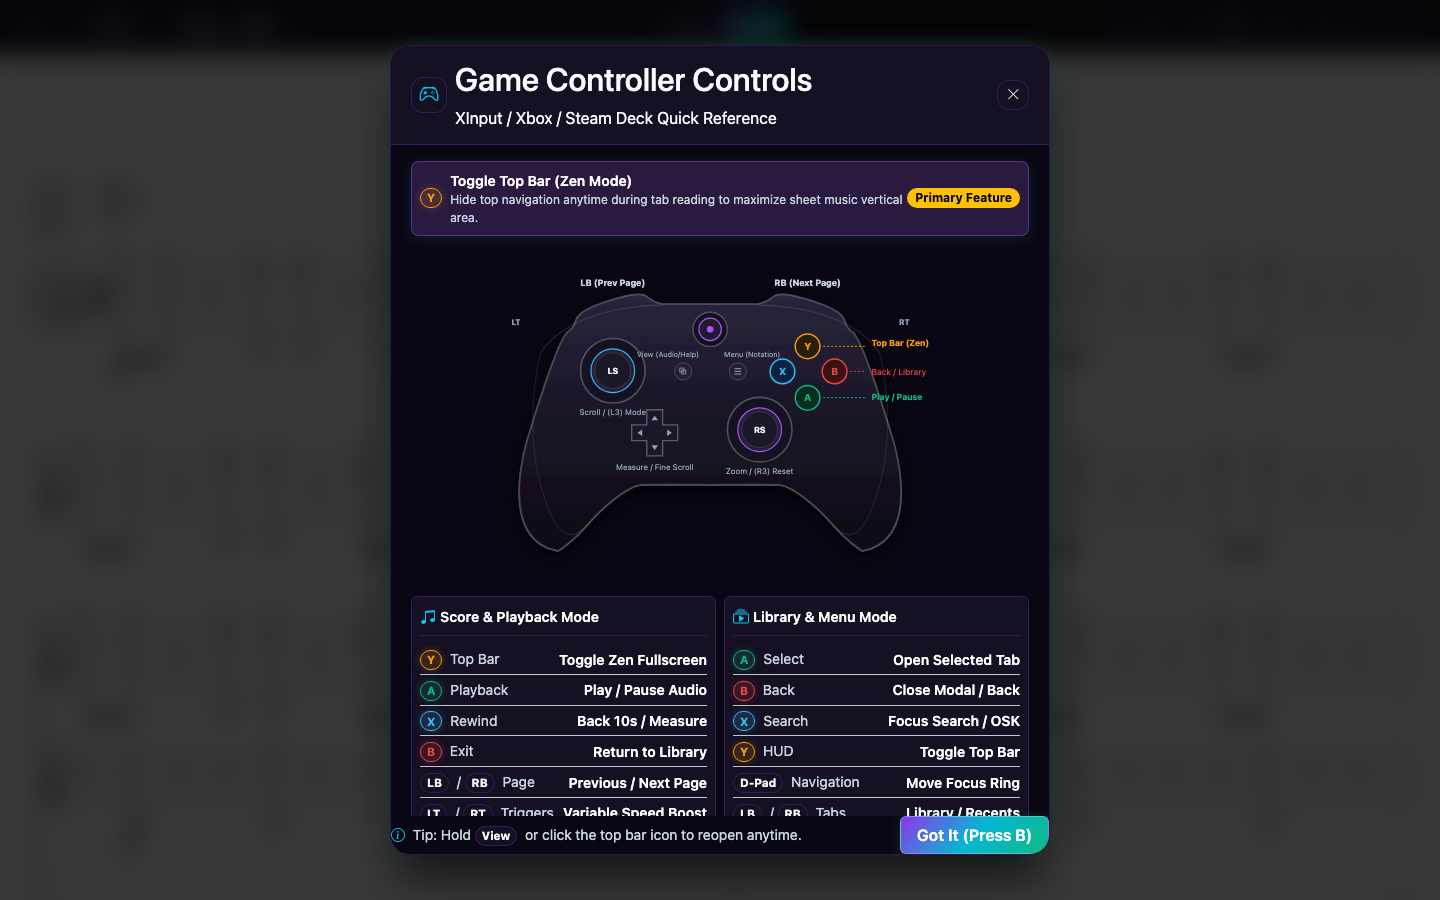
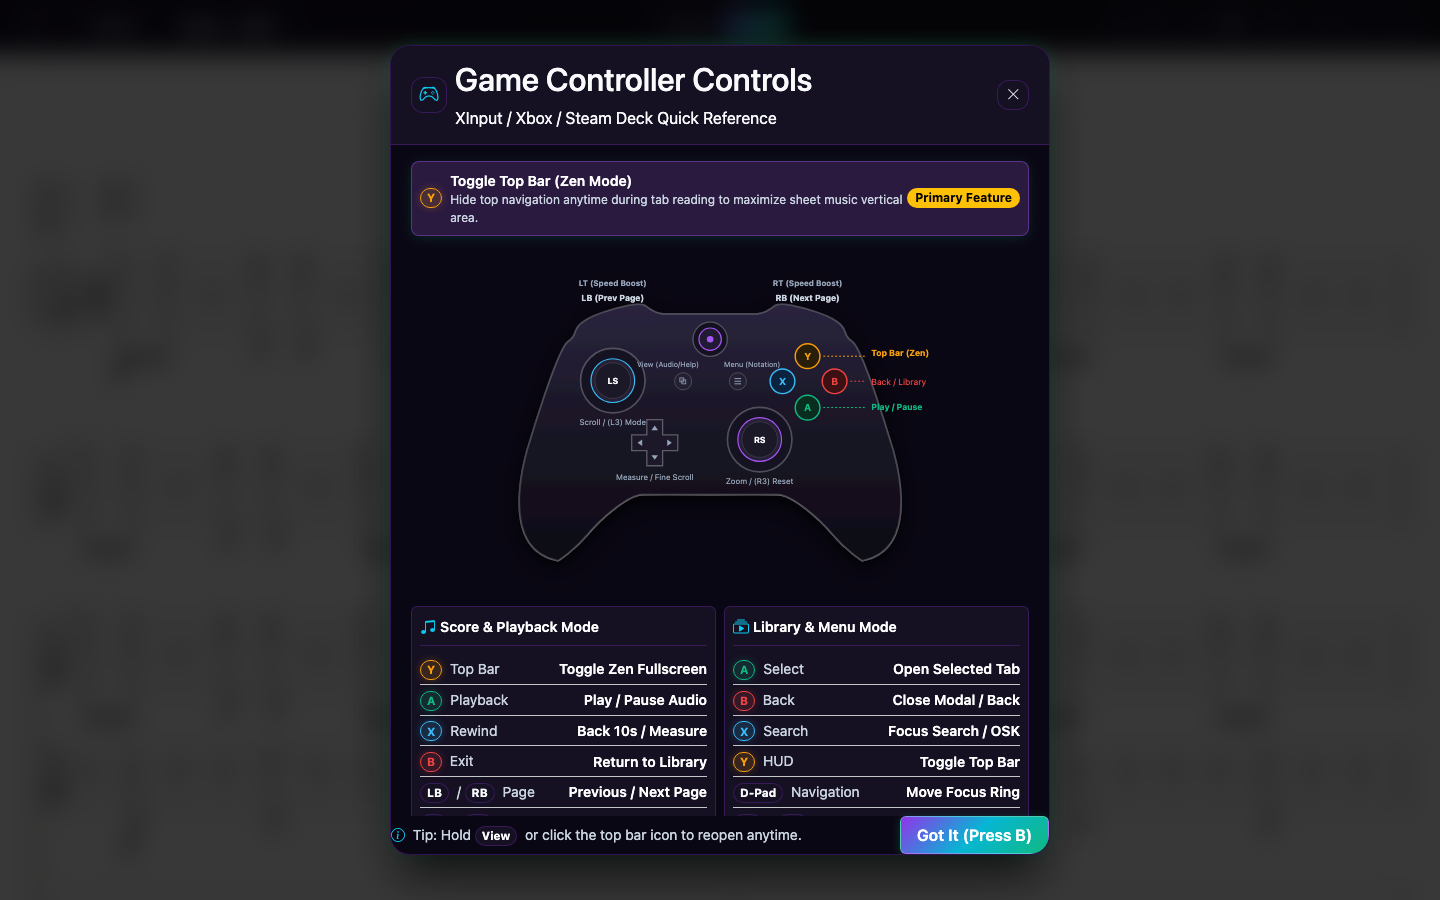
Add LT/RT action labels and remove extra line overlays on controller diagram

diff --git a/app/index.html b/app/index.html
@@ -756,7 +756,7 @@
 
       <!-- Vector Controller Diagram -->
       <div class="controller-diagram-container mb-3 text-center">
-        <svg class="controller-svg-diagram" viewBox="-90 55 790 450" xmlns="http://www.w3.org/2000/svg" role="img" aria-label="Game Controller Layout Diagram">
+        <svg class="controller-svg-diagram" viewBox="-90 40 790 465" xmlns="http://www.w3.org/2000/svg" role="img" aria-label="Game Controller Layout Diagram">
           <defs>
             <linearGradient id="ctrlBodyGrad" x1="0%" y1="0%" x2="0%" y2="100%">
               <stop offset="0%" stop-color="#2a253e" />
@@ -772,21 +772,13 @@
           <path d="M505.765,151.733c-16.255-10.392-4.528-16.329-21.353-29.193c-16.824-12.864-85.104-34.639-96.983-24.743s-25.233,11.873-25.233,11.873h-72.112h-0.122h-72.118c0,0-13.36-1.977-25.233-11.873c-11.873-9.896-80.16,11.873-96.983,24.743c-16.824,12.864-5.098,18.801-21.353,29.193C58.02,162.125,15.467,305.619,15.467,305.619s-55.417,159.824,43.544,179.12c0,0,24.248-15.336,45.025-40.079c20.784-24.743,61.353-59.872,83.128-60.368c21.298-0.483,99.389-0.019,102.792,0l0,0c0,0,0.024,0,0.061,0c0.043,0,0.062,0,0.062,0l0,0c3.403-0.019,81.494-0.483,102.792,0c21.769,0.496,62.345,35.625,83.128,60.368s45.024,40.079,45.024,40.079c98.961-19.296,43.544-179.12,43.544-179.12S522.02,162.125,505.765,151.733z"
                 fill="url(#ctrlBodyGrad)" stroke="rgba(255,255,255,0.22)" stroke-width="2.5" filter="url(#ctrlGlow)"/>
 
-          <!-- Bumper Seams -->
-          <path d="M 32 185 C 50 155, 95 125, 168 115 C 190 112, 217 111.4, 217.8 111.4" fill="none" stroke="rgba(255,255,255,0.12)" stroke-width="1.8"/>
-          <path d="M 548 185 C 530 155, 485 125, 412 115 C 390 112, 363 111.4, 362.2 111.4" fill="none" stroke="rgba(255,255,255,0.12)" stroke-width="1.8"/>
+          <!-- Left Shoulder: LT & LB -->
+          <text x="142" y="68" fill="#94a3b8" font-size="12" font-family="system-ui, sans-serif" font-weight="bold" text-anchor="middle">LT (Speed Boost)</text>
+          <text x="142" y="90" fill="#cbd5e1" font-size="13" font-family="system-ui, sans-serif" font-weight="bold" text-anchor="middle">LB (Prev Page)</text>
 
-          <!-- Grip Seams -->
-          <path d="M 32 185 C 18 245, 12 335, 42 415 C 55 450, 75 480, 104 444" fill="none" stroke="rgba(255,255,255,0.08)" stroke-width="2"/>
-          <path d="M 548 185 C 562 245, 568 335, 538 415 C 525 450, 505 480, 476 444" fill="none" stroke="rgba(255,255,255,0.08)" stroke-width="2"/>
-
-          <!-- Left Shoulder LB / LT -->
-          <text x="142" y="82" fill="#cbd5e1" font-size="13.5" font-family="system-ui, sans-serif" font-weight="bold" text-anchor="middle">LB (Prev Page)</text>
-          <text x="-5" y="142" fill="#94a3b8" font-size="12" font-family="system-ui, sans-serif" font-weight="bold" text-anchor="middle">LT</text>
-
-          <!-- Right Shoulder RB / RT -->
-          <text x="438" y="82" fill="#cbd5e1" font-size="13.5" font-family="system-ui, sans-serif" font-weight="bold" text-anchor="middle">RB (Next Page)</text>
-          <text x="585" y="142" fill="#94a3b8" font-size="12" font-family="system-ui, sans-serif" font-weight="bold" text-anchor="middle">RT</text>
+          <!-- Right Shoulder: RT & RB -->
+          <text x="438" y="68" fill="#94a3b8" font-size="12" font-family="system-ui, sans-serif" font-weight="bold" text-anchor="middle">RT (Speed Boost)</text>
+          <text x="438" y="90" fill="#cbd5e1" font-size="13" font-family="system-ui, sans-serif" font-weight="bold" text-anchor="middle">RB (Next Page)</text>
 
           <!-- Left Analog Stick (LS) at (142.1, 211.1) -->
           <g transform="translate(142.139, 211.103)">

diff --git a/index.html b/index.html
@@ -4,7 +4,7 @@
   <meta charset="UTF-8">
   <meta name="viewport" content="width=device-width, initial-scale=1.0, viewport-fit=cover">
   <title>MajesticTab - Free, Open-Source Tab Reader for Guitarists</title>
-  <meta name="description" content="Practice guitar tabs without the fiddling. Free, open-source tab viewer for PDF, Guitar Pro, and plain-text tab files with built-in library, gamepad and Steam Deck support, SoundFont synth, and YouTube backing tracks. Native apps for Windows, macOS, Linux, Steam Deck and Android.">
+  <meta name="description" content="Practice guitar tabs without the fiddling. Free, open-source tab viewer for PDF, Guitar Pro, and plain-text tab files with built-in library, gamepad and page turner support, SoundFont synth, and YouTube backing tracks. Native apps for Windows, macOS, Linux, Steam Deck and Android.">
   <meta name="theme-color" content="#06050a">
   <link rel="icon" type="image/png" sizes="32x32" href="icons/favicon-32x32.png">
   <link rel="apple-touch-icon" href="icons/apple-touch-icon.png">
@@ -138,7 +138,7 @@
       <div class="flex flex-wrap items-center justify-center gap-2 pt-4 text-xs text-slate-400 font-medium">
         <span class="inline-flex items-center gap-1.5 px-3 py-1 rounded-lg bg-slate-900/80 border border-slate-800"><i class="fa-solid fa-tag text-emerald-400"></i> Free &amp; Open Source</span>
         <span class="inline-flex items-center gap-1.5 px-3 py-1 rounded-lg bg-slate-900/80 border border-slate-800"><i class="fa-solid fa-lock text-cyan-400"></i> Local &amp; Private</span>
-        <span class="inline-flex items-center gap-1.5 px-3 py-1 rounded-lg bg-slate-900/80 border border-slate-800"><i class="fa-solid fa-gamepad text-purple-400"></i> Steam Deck &amp; Controllers</span>
+        <span class="inline-flex items-center gap-1.5 px-3 py-1 rounded-lg bg-slate-900/80 border border-slate-800"><i class="fa-solid fa-gamepad text-purple-400"></i> Page Turners &amp; Controllers</span>
         <span class="inline-flex items-center gap-1.5 px-3 py-1 rounded-lg bg-slate-900/80 border border-slate-800"><i class="fa-brands fa-youtube text-red-400"></i> YouTube Sync</span>
         <span class="inline-flex items-center gap-1.5 px-3 py-1 rounded-lg bg-slate-900/80 border border-slate-800"><i class="fa-solid fa-plane text-emerald-400"></i> Works Offline</span>
       </div>
@@ -698,7 +698,7 @@
                 <div class="text-xs font-bold text-white flex items-center gap-1.5"><i class="fa-solid fa-shoe-prints text-emerald-400"></i> Bluetooth Foot Pedals</div>
                 <ul class="space-y-1.5 text-[11px] text-slate-300">
                   <li class="flex items-center gap-2"><span class="kbd px-1.5 py-0.5 rounded bg-slate-800 border border-slate-700 text-emerald-400 font-bold">&larr; / &rarr;</span> Prev / Next Page</li>
-                  <li class="flex items-center gap-2"><span class="kbd px-1.5 py-0.5 rounded bg-slate-800 border border-slate-700 text-cyan-400 font-bold">PgUp / PgDn</span> Scroll Step</li>
+                  <li class="flex items-center gap-2"><span class="kbd px-1.5 py-0.5 rounded bg-slate-800 border border-slate-700 text-cyan-400 font-bold">PgUp / PgDn</span> Prev / Next Page</li>
                   <li class="flex items-center gap-2"><span class="kbd px-1.5 py-0.5 rounded bg-slate-800 border border-slate-700 text-amber-400 font-bold">Space</span> Play / Pause</li>
                 </ul>
               </div>
